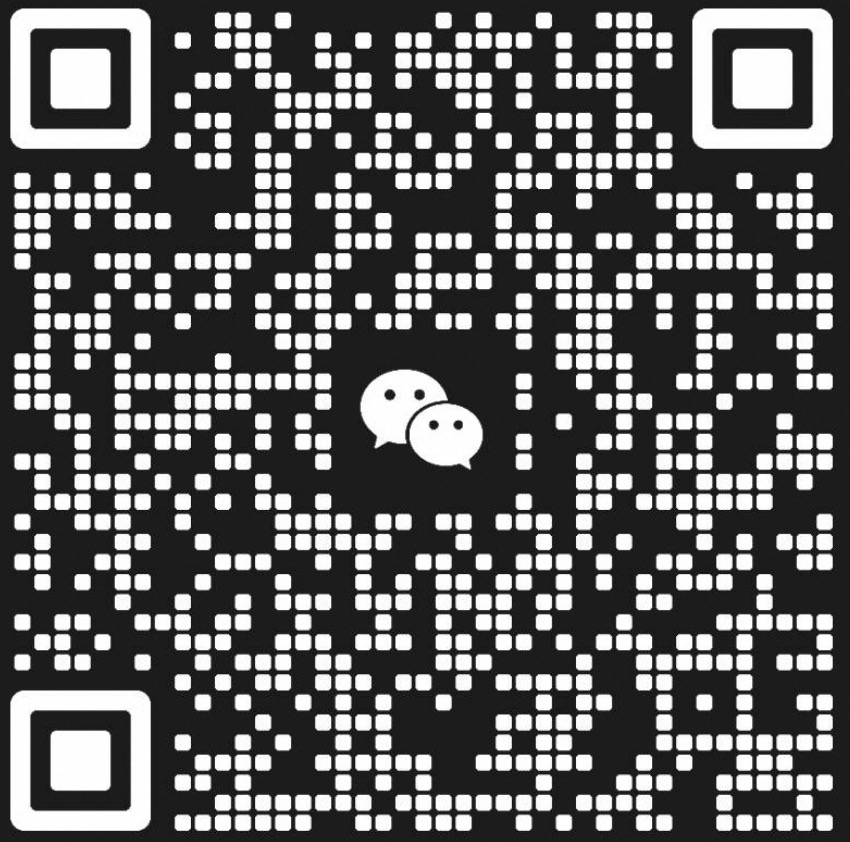
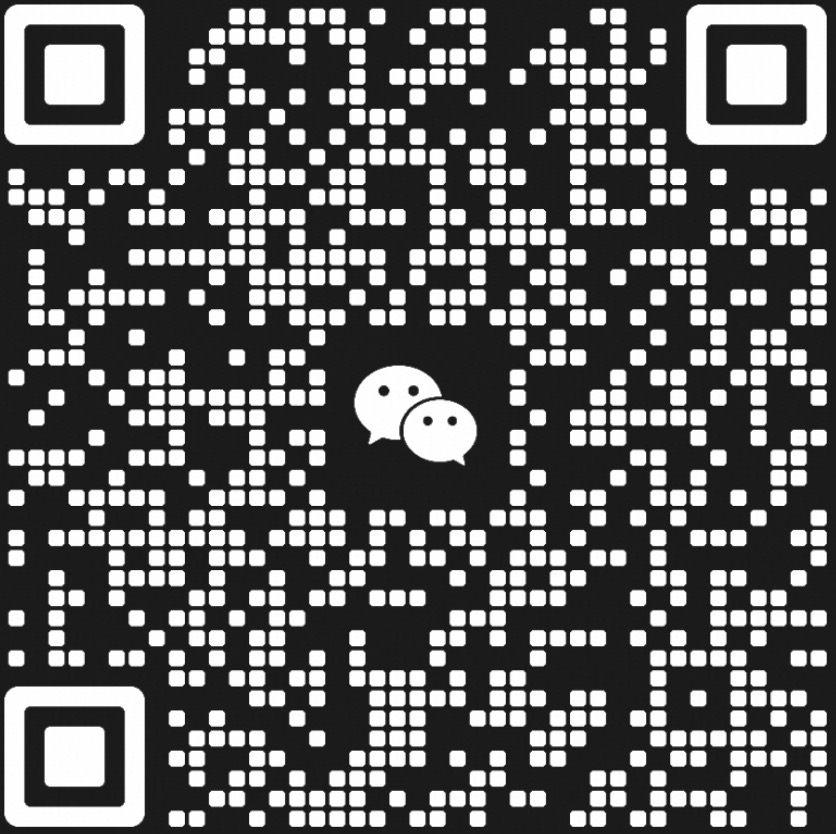
Fix tutorial link && update wechatQR

diff --git a/README.md b/README.md
@@ -298,7 +298,7 @@ The results consist of several parts:
 - Overall Computation and Communication Proportion (Supported for Physical Cluster Runs Only): Shows the proportion of total time spent on computation and communication during AICB runs.
 
 # Tutorial
-We provide a tutorial for users to quickly get started with AICB. [the tutorial](training/tutorial)
+We provide a tutorial for users to quickly get started with AICB. [the tutorial](./training/tutorial.md)
 
 # Projects using AICB
 Below are some of the projects where we have directly used AICB:
